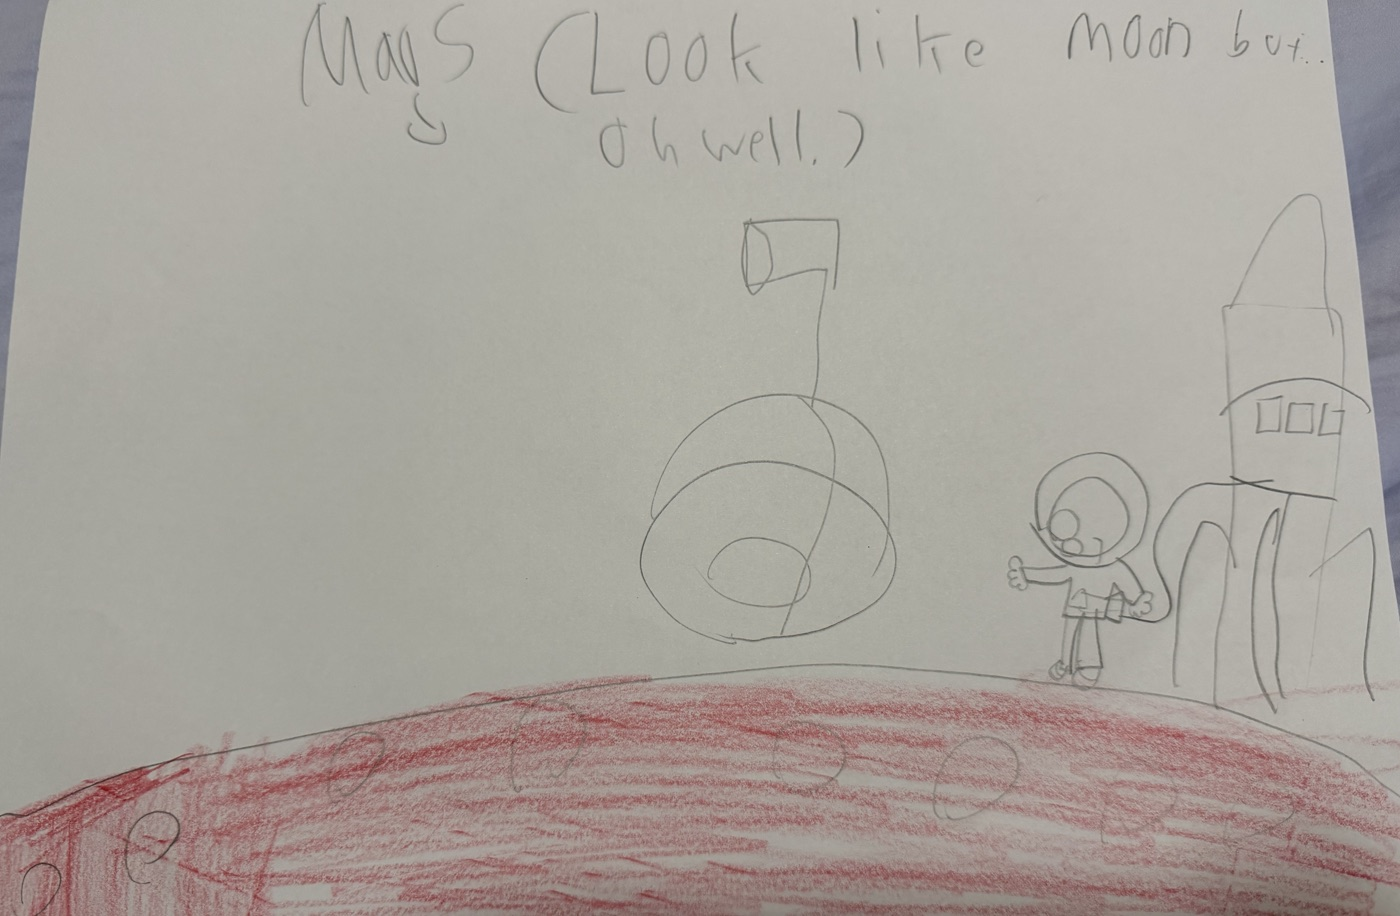
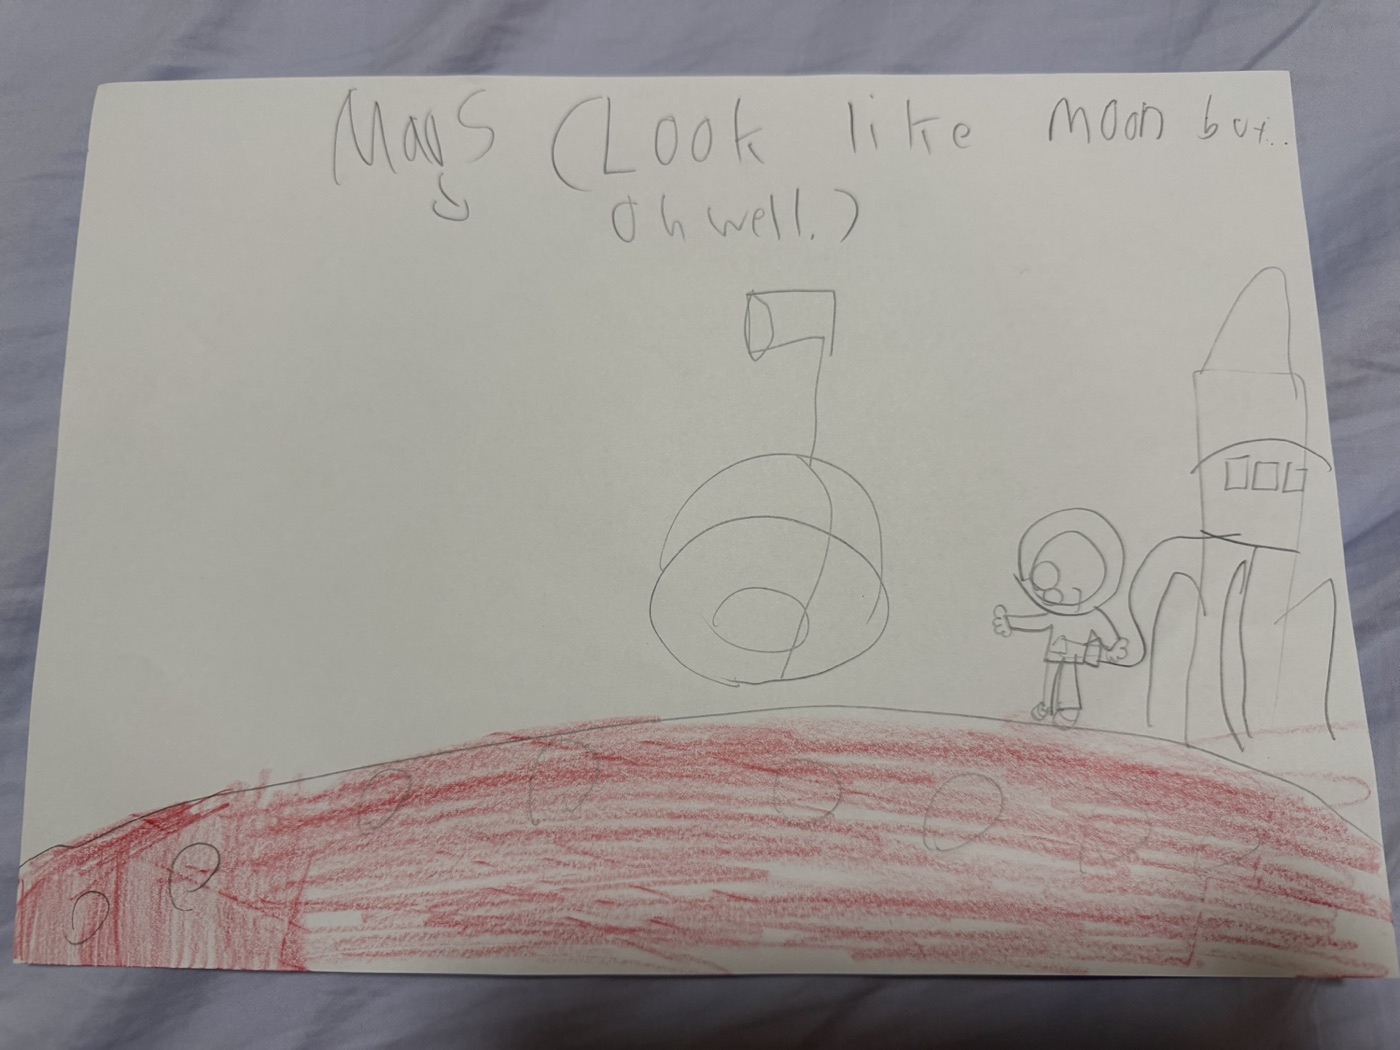
finale: restore original (uncropped) drawings; remove the birthday line — keep just the recap text + Amie's three drawings

diff --git a/src/engine/levelEngine.js b/src/engine/levelEngine.js
@@ -32,7 +32,6 @@ export function startGame(mount) {
         <figure class="finale-piece"><div class="finale-frame"><img src="${spaceDrawingUrl}" alt="In space, drawn by Amie" /></div><figcaption></figcaption></figure>
         <figure class="finale-piece"><div class="finale-frame"><img src="${marsDrawingUrl}" alt="On Mars, drawn by Amie" /></div><figcaption></figcaption></figure>
       </div>
-      <div class="finale-credit"></div>
       <button class="finale-back"></button>
     </div>`
   mount.appendChild(finaleArt)
@@ -183,7 +182,6 @@ export function startGame(mount) {
       caps[0].textContent = t({ zh: '“10·9·8…发射！”', en: '“10·9·8… BLAST OFF!”' })
       caps[1].textContent = t({ zh: '“几小时之后……”', en: '“few hours later”' })
       caps[2].textContent = t({ zh: '“火星（看着像月球…不过没关系啦）”', en: '“Mars (look like moon but… oh well.)”' })
-      finaleArt.querySelector('.finale-credit').textContent = t({ zh: '🎂 Amie，八岁生日快乐！', en: '🎂 Happy 8th birthday, Amie!' })
       finaleArt.querySelector('.finale-back').textContent = t({ zh: '← 上一关', en: '← Back' })
     }
     if (level.finale) {
